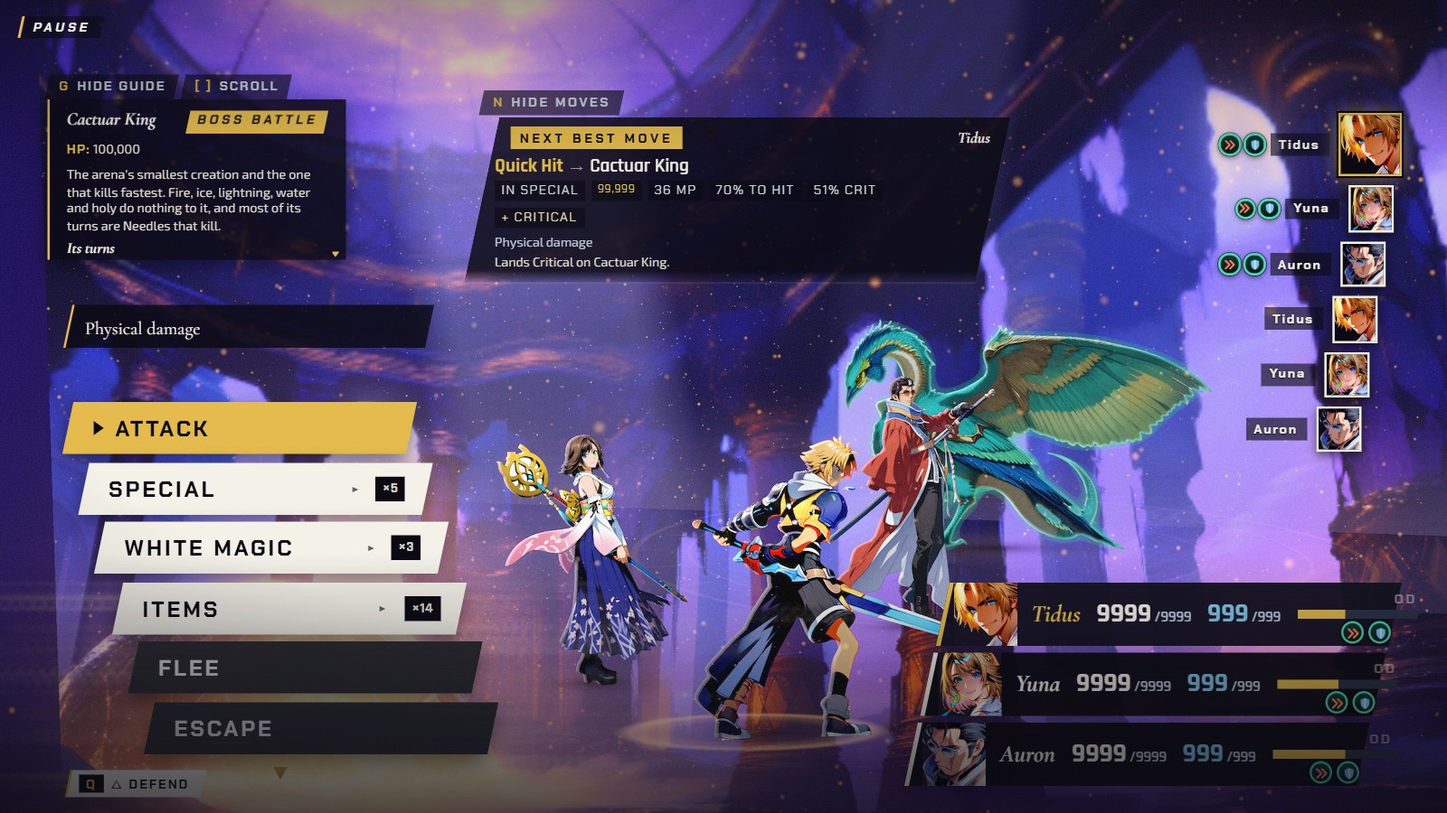
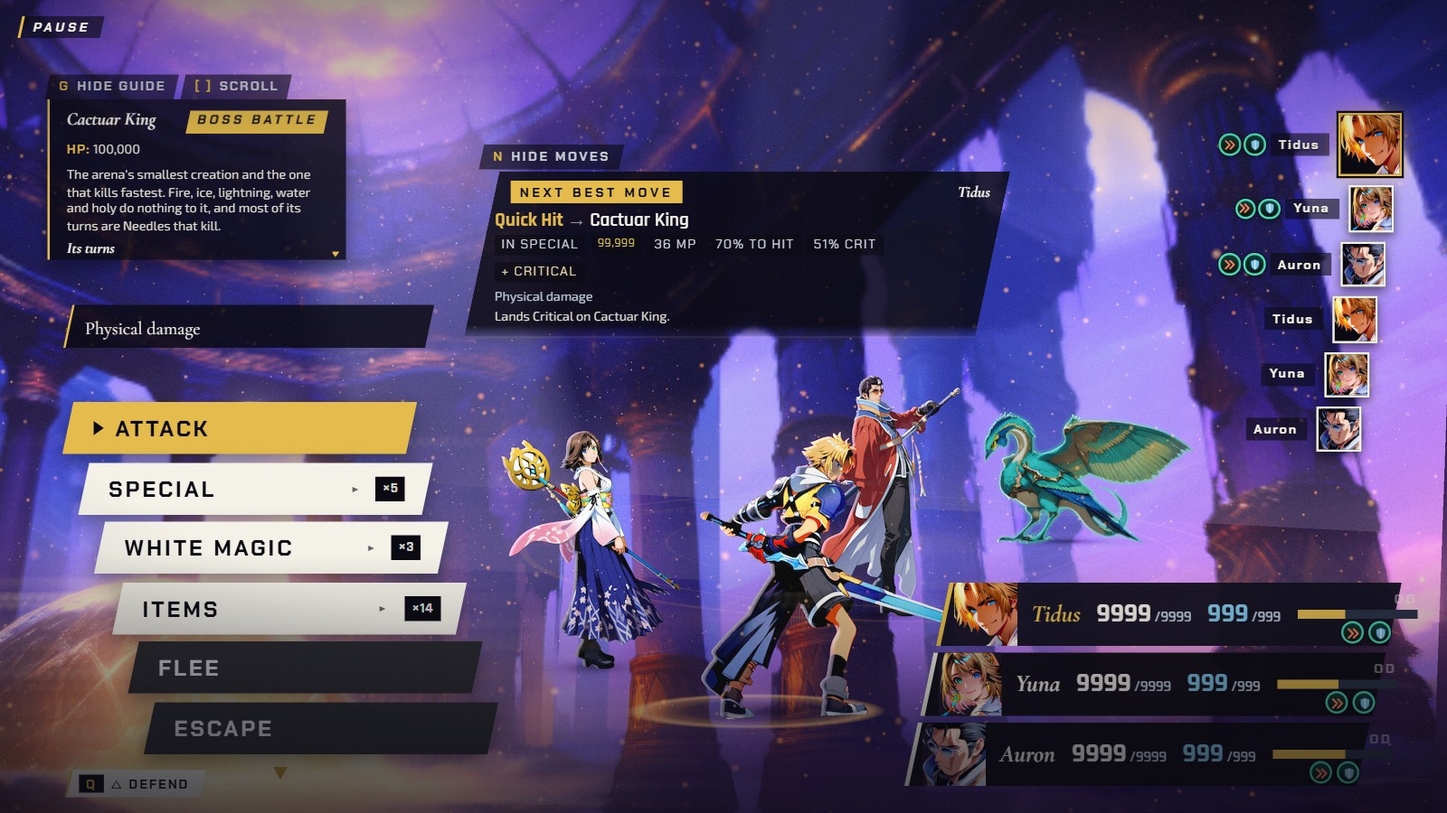
Hidden chapter 54 (Gauntlet), G-1 staging fix: the eight single bodies stand right of Auron at the height their stand-in fits the column (all nine stood on him at the first menu, at 1600, 1366 and 390 wide); the Ultima Buster is listed, not moved; the test, the handoff section and seven pictures (FF
The driver's look at desk-3 (act 1, Cactuar King) and desk-5 (act 2, Don Tonberry) found the stand-in drawn behind Auron. Measured in a headless GPU Chromium, the first menu of each of the nine acts at 1600x900, 1366x768 and 390x844 (the engine's own projected tight alpha boxes of every creature part and party member, six samples each): all nine overlapped Auron and Tidus (acts 1 and 2 at 1600: 33,115 px2 / gap -168 and 23,860 / -122; the other acts 29,000 to 37,000).

Cause: a painting is a plane centred on its spot and worldHeight is the whole sheet down to its ground row, so a wide stand-in reaches half its width left of the spot; all nine stood on x 2.5 (Yunalesca's narrow painting stands on 2.8) and the stand-in sheets are wide (the King's pterya box is 3.6 m at 2.3 m). The party is held on the Dome's slots and Auron's sword ends his box at 1101 of 1600, so the room is the column to the turn list's rows (x 1330), about 205 to 240 px, the width the shipped bosses stand (Yunalesca 188, Spherimorph 195).
[…]

diff --git a/tests/unit/chapters/gauntlet-staging-clear.test.ts b/tests/unit/chapters/gauntlet-staging-clear.test.ts
@@ -1,0 +1,148 @@
+/**
+ * G-1 (2026-11-10, FFX only): the Gauntlet's nine creatures stand clear of the party at the first menu. `src/scenes/gauntlet.ts` stages each creature (a spot and a height); this pins, with no browser and no art, that the
+ * painted box of each stand-in, projected the way the battle screen draws it, ends right of Auron's with a gap and left of the turn list's rows, at 1600 x 900 and 1366 x 768.
+ *
+ * **What is pinned, and where it came from** (a headless Chromium on the GPU, the real battle screen, the first menu of each act, seed 7; `docs/handoff/ch-gauntlet.md`, "G-1 staging fix"):
+ * - `BOX`: each stand-in's tight alpha box as `PaintedActor.contentQuad` reads it, in metres per metre of the figure's world height, measured against the painting (`scale.contentBox / worldHeight`); a sheet is drawn
+ *   centred on its spot, so the box is only as far left of the spot as `x0` says (the King's winged sheet is lopsided, the rest are centred).
+ * - `CAMERA`, `FRAMES`: the first menu's camera and the static lens shift the shared framing plans (`engine/fx/mix`), and Auron's measured right edge, **in the frame the framing plan picks when the boss stands clear of the
+ *   party: it steps the party 0.7 m toward the boss** (Auron on x 2.0, not the slot's 1.3). The picks of the plan are near ties (its own comment says so); a change to that code or a stage-table row for the chapter
+ *   (no step) moves these frames and this test says so by failing: re-measure with `docs/handoff/ch-gauntlet.md`'s recipe.
+ * - The model is a pinhole camera fitted to the run's own rectangles: over the eight bodies and Auron at both sizes (the four edges of each box) it is 1.2 px rms and 3.6 px at worst (the idle drift swings the real camera by
+ *   about 0.07 m); the self-check below pins Auron's right edge, the one the gaps are measured from.
+ *
+ * The Ultima Buster is **not** moved and is the one listed exception: its Head and two Arms flank the party and its body cannot share the column at a size that reads (`docs/handoff/ch-gauntlet.md`, G-1).
+ */
+
+import { describe, expect, it } from 'vitest';
+import { GAUNTLET_CREATURES, type GauntletCreatureId } from '../../../src/data/ffx/gauntlet-ids.ts';
+import { GAUNTLET_HEIGHTS, GAUNTLET_SPOTS } from '../../../src/scenes/gauntlet.ts';
+
+type V3 = readonly [number, number, number];
+
+/** Where the first menu's camera stands once the framing plan has stepped the party, fitted to the measured boxes (metres; the idle drift swings it about 0.07 in x and 0.03 in y, which the gaps asserted allow for). */
+const CAMERA = { pos: [0.01, 2.59, 10.23] as V3, dir: [0.03, -0.06, -0.9977] as V3, fovDeg: 32 };
+
+/** The two desktop sizes of the finding. `lens`: the plan's static shift of the picture in CSS px; `auronRight`: Auron's measured right edge (his sword) in that frame; `rail`: where the turn list's rows begin. */
+const FRAMES = [
+  { size: '1600x900', w: 1600, h: 900, lens: [-64, -36] as const, auronRight: 1061, rail: 1330, minGap: 18 },
+  { size: '1366x768', w: 1366, h: 768, lens: [-55, -31] as const, auronRight: 905, rail: 1136, minGap: 15 },
+] as const;
+
+/** Auron's painted box (his own `contentBox`, 1.93 m figure) and where he stands in the stepped frame: the slot's x 1.3 plus the plan's 0.7 step. */
+const AURON = { x: 2.0, z: -0.75, halfW: 0.625, height: 1.907 };
+
+/** Each stand-in's tight alpha box per metre of world height (x runs right from the spot; y up from the ground). */
+const BOX: Readonly<Record<GauntletCreatureId, { x0: number; x1: number; y1: number }>> = {
+  'cactuar-king': { x0: -0.6366, x1: 0.9459, y1: 0.9675 },
+  'don-tonberry': { x0: -0.4715, x1: 0.4715, y1: 0.9869 },
+  jormungand: { x0: -0.544, x1: 0.544, y1: 0.9766 },
+  'earth-eater': { x0: -0.7156, x1: 0.7156, y1: 0.9777 },
+  'greater-sphere': { x0: -0.5261, x1: 0.5261, y1: 0.9701 },
+  catastrophe: { x0: -0.3762, x1: 0.3762, y1: 0.9755 },
+  thuban: { x0: -0.4501, x1: 0.4501, y1: 0.9761 },
+  neslug: { x0: -0.4741, x1: 0.4741, y1: 0.9824 },
+  'ultima-buster': { x0: -0.7555, x1: 0.7555, y1: 0.9794 },
+};
+
+/** The staging before G-1 (every body on the Dome's slot, x 2.5, z -4, at the estimates): the values that put the stand-ins on Auron. */
+const BEFORE: Readonly<Record<GauntletCreatureId, { spot: V3; height: number }>> = {
+  'cactuar-king': { spot: [2.5, 0, -4], height: 2.3 },
+  'don-tonberry': { spot: [2.5, 0, -4], height: 2.2 },
+  jormungand: { spot: [2.5, 0, -4], height: 3.2 },
+  'earth-eater': { spot: [2.5, 0, -4], height: 2.9 },
+  'greater-sphere': { spot: [2.5, 0, -4], height: 3.0 },
+  catastrophe: { spot: [2.5, 0, -4], height: 3.4 },
+  thuban: { spot: [2.5, 0, -4], height: 2.9 },
+  neslug: { spot: [2.5, 0, -4], height: 2.8 },
+  'ultima-buster': { spot: [2.5, 0, -4], height: 3.4 },
+};
+
+const norm = (v: V3): V3 => {
+  const l = Math.hypot(v[0], v[1], v[2]);
+  return [v[0] / l, v[1] / l, v[2] / l];
+};
+const cross = (a: V3, b: V3): V3 => [a[1] * b[2] - a[2] * b[1], a[2] * b[0] - a[0] * b[2], a[0] * b[1] - a[1] * b[0]];
+const dot = (a: V3, b: V3): number => a[0] * b[0] + a[1] * b[1] + a[2] * b[2];
+
+/** The pinhole: a world point to CSS px in a `w` x `h` frame under the first menu's camera and a lens shift. */
+function project(p: V3, f: { w: number; h: number; lens: readonly [number, number] }): { x: number; y: number } {
+  const fwd = norm(CAMERA.dir);
+  const right = norm(cross(fwd, [0, 1, 0]));
+  const up = cross(right, fwd);
+  const v: V3 = [p[0] - CAMERA.pos[0], p[1] - CAMERA.pos[1], p[2] - CAMERA.pos[2]];
+  const t = Math.tan((CAMERA.fovDeg * Math.PI) / 360);
+  const d = dot(v, fwd);
+  return { x: (dot(v, right) / d / (t * (f.w / f.h)) * 0.5 + 0.5) * f.w + f.lens[0], y: (-(dot(v, up) / d / t) * 0.5 + 0.5) * f.h + f.lens[1] };
+}
+
+/** The screen box (x, right, y, bottom) of a plane box standing at `spot`. */
+function screenBox(spot: V3, x0: number, x1: number, y1: number, f: { w: number; h: number; lens: readonly [number, number] }): { l: number; r: number; t: number; b: number } {
+  const pts = [
+    project([spot[0] + x0, spot[1], spot[2]], f),
+    project([spot[0] + x1, spot[1], spot[2]], f),
+    project([spot[0] + x1, spot[1] + y1, spot[2]], f),
+    project([spot[0] + x0, spot[1] + y1, spot[2]], f),
+  ];
+  return { l: Math.min(...pts.map((p) => p.x)), r: Math.max(...pts.map((p) => p.x)), t: Math.min(...pts.map((p) => p.y)), b: Math.max(...pts.map((p) => p.y)) };
+}
+
+/** A creature's screen box from a spot and a height. */
+function creatureBox(id: GauntletCreatureId, spot: V3, height: number, f: (typeof FRAMES)[number]) {
+  const b = BOX[id];
+  return screenBox(spot, b.x0 * height, b.x1 * height, b.y1 * height, f);
+}
+
+/** Auron's box in a frame, from the model. */
+function auronBox(f: (typeof FRAMES)[number]) {
+  return screenBox([AURON.x, 0, AURON.z], -AURON.halfW, AURON.halfW, AURON.height, f);
+}
+
+/** The eight bodies G-1 moves; the ninth, the Ultima Buster, is the listed exception. */
+const MOVED: readonly GauntletCreatureId[] = GAUNTLET_CREATURES.filter((id) => id !== 'ultima-buster');
+
+describe('the Gauntlet stages every creature clear of the party at the first menu (G-1)', () => {
+  it('the model reads Auron where the browser did: his right edge within 2 px at both sizes', () => {
+    for (const f of FRAMES) expect(Math.abs(auronBox(f).r - f.auronRight), f.size).toBeLessThanOrEqual(2);
+  });
+
+  for (const f of FRAMES) {
+    for (const id of MOVED) {
+      it(`act ${GAUNTLET_CREATURES.indexOf(id) + 1} (${id}) at ${f.size}: its painted box ends at least ${f.minGap} px right of Auron's and left of the turn list's rows`, () => {
+        const auronR = Math.max(auronBox(f).r, f.auronRight); // the measured edge is the stricter of the two when the model is a pixel short
+        const b = creatureBox(id, GAUNTLET_SPOTS[id], GAUNTLET_HEIGHTS[id], f);
+        expect(b.l - auronR, 'gap to Auron').toBeGreaterThanOrEqual(f.minGap);
+        expect(b.r, 'right edge against the turn list').toBeLessThanOrEqual(f.rail);
+      });
+    }
+  }
+
+  it('the staging before G-1 put Don Tonberry and the Cactuar King on Auron at both sizes (the check can fail)', () => {
+    for (const f of FRAMES) {
+      for (const id of ['cactuar-king', 'don-tonberry'] as const) {
+        const old = BEFORE[id];
+        const b = creatureBox(id, old.spot, old.height, f);
+        expect(b.l - auronBox(f).r, `${id} before, ${f.size}`).toBeLessThan(0);
+      }
+    }
+  });
+
+  it('every one of the nine acts is accounted for: eight are staged clear and the Ultima Buster is the one exception, left as it was', () => {
+    expect([...MOVED, 'ultima-buster']).toEqual([...GAUNTLET_CREATURES]);
+    expect(GAUNTLET_SPOTS['ultima-buster']).toEqual(BEFORE['ultima-buster'].spot);
+    expect(GAUNTLET_HEIGHTS['ultima-buster']).toBe(BEFORE['ultima-buster'].height);
+    // The exception really is one: its body, at the spot it keeps, still stands across Auron.
+    const f = FRAMES[0];
+    expect(creatureBox('ultima-buster', GAUNTLET_SPOTS['ultima-buster'], GAUNTLET_HEIGHTS['ultima-buster'], f).l).toBeLessThan(auronBox(f).r);
+  });
+
+  it('G-1 changed the bodies by staging only: the Dome\'s depth, and no body taller than before', () => {
+    for (const id of MOVED) {
+      expect(GAUNTLET_SPOTS[id][2], `${id} depth`).toBe(BEFORE[id].spot[2]);
+      expect(GAUNTLET_SPOTS[id][0], `${id} stands right of where it stood`).toBeGreaterThan(BEFORE[id].spot[0]);
+      expect(GAUNTLET_HEIGHTS[id], `${id} height`).toBeLessThanOrEqual(BEFORE[id].height);
+      expect(GAUNTLET_HEIGHTS[id], `${id} not below half its estimate`).toBeGreaterThanOrEqual(BEFORE[id].height * 0.5);
+    }
+    expect(GAUNTLET_HEIGHTS['don-tonberry']).toBe(BEFORE['don-tonberry'].height); // the narrow stand-in needs no shrink: only a move
+  });
+});

diff --git a/src/scenes/gauntlet.ts b/src/scenes/gauntlet.ts
@@ -15,45 +15,64 @@ import { GAUNTLET_CREATURES, ULTIMA_BUSTER_ARM_LEFT_ID, ULTIMA_BUSTER_ARM_RIGHT_
 // (`EnemyGroupDef.plate`, `data/ffx/gauntlet-ids.ts#GAUNTLET_PLATE`) is that plate, so the battle screen's plate swap is a no-op here; when the new plate lands it is one line there and in `data/art/artNamespace.ts`.
 //
 // ONE STAGE, NINE ACTS. The chapter is a chain of nine fresh fights and a chain keeps one scene: the staging below knows every creature by its combatant id, so each act places its own and the others are never on the field
-// together. All nine stand on the Dome's own enemy slot 0 (solved against the HUD safe area: the CTB queue owns everything right of 0.843 of the canvas, so a figure has to finish by 0.79; `./zanarkand-dome.ts`).
-// The Ultima Buster alone has parts: its Head and its two Arms stand behind the body, the Arms either side of it.
+// together. The Dome's own enemy slot 0 (x 2.5, z -4.0; solved against the HUD safe area: the CTB queue owns everything right of 0.843 of the canvas, `./zanarkand-dome.ts`) is where the Ultima Buster stands; the other
+// eight stand at the same depth, further right (G-1, below). The Ultima Buster alone has parts: its Head and its two Arms stand behind the body, the Arms either side of it.
+//
+// **G-1 (2026-11-10, FFX only): THE STAND-INS STOOD ON AURON.** Each plane is centred on its spot and `worldHeight` is the height of the whole sheet down to its ground row, so a wide stand-in reaches half its width left of
+// the spot (the King's winged `pterya` sheet is 1,785 x 950: 3.6 m of painted box at 2.3 m). Yunalesca's narrow painting (188 px wide at 1600) is clear of Auron from x 2.8; these nine, from x 2.5, reached 122 to 252 px into
+// Auron's box (79 to 263 into Tidus's) at 1600 x 900, and overlapped it at 1366 x 768 and 390 x 844 too (`docs/handoff/ch-gauntlet.md`, "G-1 staging fix"). The party stands on the Dome's slots and the shared framing
+// (`engine/fx/mix`) steps it 0.7 m toward a boss that stands clear of it, so the room is what is left of that frame: Auron's box ends at 1061 of 1600 px (his sword) and the turn list's rows begin at 1330, a column about 240 px
+// wide (Yunalesca stands 188 wide, Spherimorph 195). So the eight bodies stand at the Dome's boss depth at x 4.5 to 4.75 with **the height at which their painting is no wider than the column**: the narrow stand-ins (Don
+// Tonberry, Catastrophe, Th'uban, Neslug) lose 0 to 19 percent, the wide ones (the King, Earth Eater, Jormungand, the Greater Sphere) 31 to 48. Standing deeper would not buy the size back (the box is as wide on screen
+// wherever it stands) and the phone refits its camera to hold the whole fight in one slice, so every metre between Auron and a figure's far edge is paid for there in the party's size. **The Ultima Buster is not moved**:
+// its four pieces cannot share the column at a size that reads (the numbers and the two options are in the handoff note).
 //
 // **THE HEIGHTS ARE ESTIMATES** for the framing (no stature row exists for any of the nine: `data/ffx/fiend-stature.ts` is keyed by other monsters): the party stands 1.78 and the Dome's own boss 2.9. The painting that
 // stands in for each creature (`GAUNTLET_SPRITE`) is not the creature, so the height is read off the creature as the guides describe it (a giant Cactuar, a king Tonberry, a great serpent, a heavy ground-bound beast, a
 // round machine, a vast thorned monster, a robed giant, a bulky shelled slug, a towering machine), capped at what the Dome's rigs frame. They were LOOKED AT in the stage 5 browser inspection of `docs/handoff/ch-gauntlet.md` (all nine acts' first menus):
 // the first pass put the nine on Yunalesca's spot (x 2.8) at 2.2 to 3.4 m, and the wide stand-in paintings (the King's winged `pterya`, Earth Eater's `sinspawn-gui`) reached the turn list's rail, and the Arms' stand-in
-// `gate-lock` (a 659 x 394 bar) at 1.8 m was a 3 m beam across the party; so the spot is the Dome's own slot 0 (x 2.5) and the King, Earth Eater and the Arms are smaller. A figure that clips the frame is a one-number
-// change here; the art lane's paintings are solved against the safe area.
+// `gate-lock` (a 659 x 394 bar) at 1.8 m was a 3 m beam across the party; so the second pass stood them on the Dome's own slot 0 (x 2.5) with the King, Earth Eater and the Arms smaller (G-1 above moved the bodies again, and the heights below are the third pass's). A figure that clips the
+// frame is a one-number change here; the art lane's paintings are solved against the safe area.
 
-/** The Dome's own enemy slot 0 (`ZANARKAND_DOME_SLOTS.enemy[0]`; Yunalesca stands a little right of it, at 2.8): every body stands here. */
+/** The Dome's own enemy slot 0 (`ZANARKAND_DOME_SLOTS.enemy[0]`; Yunalesca stands a little right of it, at 2.8): the Ultima Buster stands here (the published slot too). */
 const BOSS_SPOT: Spot = [2.5, 0, -4.0];
 
-/** Where each combatant stands, by id. The parts of the Ultima Buster stand behind the body, the Arms either side of it and the Head above them. */
+/** The other eight bodies' depth: the Dome's own, so the camera and the phone's slice fit are planned for the stage as every other chapter on it gets them. */
+const BODY_Z = -4.0;
+
+/**
+ * Where each combatant stands, by id. **G-1:** the eight single bodies stand right of Auron at the Dome's depth, each at the x that puts its painting's left edge about 24 px right of his sword in the frame the framing plan picks
+ * (1600 x 900; 22 at 1366 x 768) with its right edge left of the turn list's rows (at 1326 of 1330); the King's x is lower than the rest because its winged sheet is lopsided (its box runs 1.46 m left of the spot and 2.18
+ * right at 2.3 m, the others are centred on theirs). The parts of the Ultima Buster stand behind the body, the Arms either side of it and the Head above them.
+ */
 export const GAUNTLET_SPOTS: Readonly<Record<GauntletCombatantId, Spot>> = {
-  'cactuar-king': BOSS_SPOT,
-  'don-tonberry': BOSS_SPOT,
-  jormungand: BOSS_SPOT,
-  'earth-eater': BOSS_SPOT,
-  'greater-sphere': BOSS_SPOT,
-  catastrophe: BOSS_SPOT,
-  thuban: BOSS_SPOT,
-  neslug: BOSS_SPOT,
+  'cactuar-king': [4.54, 0, BODY_Z],
+  'don-tonberry': [4.7, 0, BODY_Z],
+  jormungand: [4.75, 0, BODY_Z],
+  'earth-eater': [4.75, 0, BODY_Z],
+  'greater-sphere': [4.75, 0, BODY_Z],
+  catastrophe: [4.74, 0, BODY_Z],
+  thuban: [4.74, 0, BODY_Z],
+  neslug: [4.74, 0, BODY_Z],
   'ultima-buster': BOSS_SPOT,
   [ULTIMA_BUSTER_HEAD_ID]: [2.5, 0, -8.0],
   [ULTIMA_BUSTER_ARM_LEFT_ID]: [0.7, 0, -6.0],
   [ULTIMA_BUSTER_ARM_RIGHT_ID]: [3.6, 0, -6.0],
 };
 
-/** World heights, metres: the party stands 1.78. Estimates for the framing, `[estimate]` (see the note above). */
+/**
+ * World heights, metres: the party stands 1.78. Estimates for the framing, `[estimate]` (see the note above). **G-1:** the eight single bodies are the largest height at which the stand-in's painted box fits the column
+ * right of Auron (the comment on each is the height it had, read off the creature as the guides describe it); the column is the HUD's, so the art lane's real paintings re-solve them. The Ultima Buster keeps its estimates.
+ */
 export const GAUNTLET_HEIGHTS: Readonly<Record<GauntletCombatantId, number>> = {
-  'cactuar-king': 2.3, // the stand-in is a wide winged beast (1,785 x 950): at 2.6 its wing tip reached the turn list
-  'don-tonberry': 2.2,
-  jormungand: 3.2,
-  'earth-eater': 2.9, // the stand-in is a wide, heavy body: at 3.2 its right edge crossed the turn list's rail
-  'greater-sphere': 3.0,
-  catastrophe: 3.4,
-  thuban: 2.9, // the Sanctuary Keeper painting it stands in with is the Spectral Keeper's 2.9 on this very stage
-  neslug: 2.8,
+  'cactuar-king': 1.37, // was 2.3: the stand-in is a wide winged beast (1,785 x 950), its box 3.6 m wide at 2.3 m
+  'don-tonberry': 2.2, // unchanged: the narrow stand-in needed a move and no shrink
+  jormungand: 1.99, // was 3.2: the stand-in (`geosgaeno`) is a long serpent
+  'earth-eater': 1.51, // was 2.9: the stand-in is a wide, heavy body
+  'greater-sphere': 2.06, // was 3.0
+  catastrophe: 2.86, // was 3.4
+  thuban: 2.39, // was 2.9 (the Sanctuary Keeper painting it stands in with is the Spectral Keeper's 2.9 on this very stage)
+  neslug: 2.27, // was 2.8
   'ultima-buster': 3.4,
   [ULTIMA_BUSTER_HEAD_ID]: 1.3,
   [ULTIMA_BUSTER_ARM_LEFT_ID]: 1.1, // the stand-in is a wide bar (659 x 394): 1.8 made a 3 m beam

diff --git a/docs/handoff/ch-gauntlet.md b/docs/handoff/ch-gauntlet.md
@@ -424,7 +424,7 @@ Game case: **FFX only** (the chapter is the Monster Arena's, CTB; the FFX-2 abse
 - **GA8 (the file's drops only, the x99 prize named as not in this build):** the second sentence: "...the stacked prize the game pays for each first win is not in this build." The chapter pays the records' drops (a certain item and a rare Dark Matter), AP 8,000 or 50,000, no gil. Alternative: pay the guides' x99 items.
 - **GA13 (Normal start, Escape and Flee off, flagged unsourced):** done in stage 2's formations (`canEscape: false`, no start type); the groups file's header says "unsourced" and `gauntlet-chapter.test.ts` pins both. The smoke shows Escape and Flee drawn and shut.
 - **GA10, GA11, GA12 stay the stand-ins** (below); GA10 (eight new paintings, Th'uban the Keeper's recolour) and GA11 (one new plate, a light per creature) are **held for Bailey's picks with mockups first** (hard rule 9).
-- **The stage's own picks:** the stage is the Dome's scene derived, not a new plate (the preflight's option (c)); each creature stands on the Dome's boss spot at an estimated height (`GAUNTLET_HEIGHTS`: the bodies 2.2 to 3.4 m, the Ultima Buster's parts 1.1 to 1.3 m, all on the Dome's own enemy slot 0, x 2.5; looked at, see the framing inspection below); **no turn-order change: Auron's "He moves after you" line is shown at the first menu** (true in 200 of 200 seeds); no callouts in the story (the guide card and the advisor name what each creature answers); the withdrawal card prints "The Cactuar King got away!" (stage 2's GA9 pick); five reward items get name-only rows (below).
+- **The stage's own picks:** the stage is the Dome's scene derived, not a new plate (the preflight's option (c)); each creature stands on the Dome's boss spot at an estimated height (`GAUNTLET_HEIGHTS`: the bodies 2.2 to 3.4 m, the Ultima Buster's parts 1.1 to 1.3 m, all on the Dome's own enemy slot 0, x 2.5; looked at, see the framing inspection below; **G-1 below moved eight of the nine bodies right and resized them: they had stood on Auron**); **no turn-order change: Auron's "He moves after you" line is shown at the first menu** (true in 200 of 200 seeds); no callouts in the story (the guide card and the advisor name what each creature answers); the withdrawal card prints "The Cactuar King got away!" (stage 2's GA9 pick); five reward items get name-only rows (below).
 
 ### The registrations in shared tables (the integrator lists these; each a minimal add, the one line named)
 
@@ -497,9 +497,9 @@ Four lines. **advisor** is the shipped line (`SHIPPED_LINE`: Yojimbo unused, so 
 
 1. `desk-1-party-prep.jpg`: the party-prep chapter tab for "THE GAUNTLET, FFX · EXP, Nine creations, one arena": the two-sentence card (the unlock rule and the prize line), the three objectives (Reach the Earth Eater, Reach Th'uban, Leave the last stall empty), the tip (Lulu for Neslug and the Ultima Buster, an Arm before the body, no Overdrive on the Greater Sphere), three small snapshots (the arena floor, Lulu, Auron), the party list of seven, the front three and START BATTLE. The right of the panel is the Dome plate (the fallback).
 2. `desk-2-pre-scene.jpg`: the first line of the pre scene on the full Dome plate, the box typing "The Monster Arena, in the Calm" (typewriter text, mid-line).
-3. `desk-3-first-menu.jpg`: the first command menu of act 1: the guide card top left ("Cactuar King, BOSS BATTLE, HP 100,000" and the page's first paragraph), "NEXT BEST MOVE Quick Hit -> Cactuar King", the menu with Flee and Escape shut, the party on the Dome's floor and the stand-in (`pterya`, a teal winged beast at 2.3 m, its wing tip ending at the turn list's rail: at the first pass's 2.6 m it crossed it, which is why the height changed; the real painting is solved against the HUD's safe area, the art list).
-4. `desk-4-after-a-needle.jpg`: after the first exchange: the "10000 Needles" banner at the top (the King's counter), the menu closed, the party standing on the plate, the stand-in in front of a column.
-5. `desk-5-act-2-first-menu.jpg`: act 2: the card now reads "Don Tonberry, HP 480,000" with its Karma paragraph, "NEXT BEST MOVE Attack -> Don Tonberry", the party whole (9,999) and the stand-in (`grothia`, a horned red beast) beside Auron.
+3. `desk-3-first-menu.jpg` (**retaken after G-1; the description is the retaken picture's**): the first command menu of act 1: the guide card top left ("Cactuar King, BOSS BATTLE, HP 100,000" and the page's first paragraph), "NEXT BEST MOVE Quick Hit -> Cactuar King", the menu with Flee and Escape shut, the party on the Dome's floor, stepped a little right by the framing plan, and the stand-in (`pterya`, a teal winged beast, 235 x 147 px) right of Auron with a gap of about 25 px, its wing tip ending just left of the turn list's rows. In the first pass the same stand-in stood behind Auron (its wing over his shoulder and blade).
+4. `desk-4-after-a-needle.jpg` (retaken after G-1): after the first exchange: the "10000 Needles" banner at the top (the King's counter), the menu closed and the HUD faded, the party standing on the plate in the wide frame, the stand-in right of Auron in front of a column, clear of him.
+5. `desk-5-act-2-first-menu.jpg`: act 2: the card now reads "Don Tonberry, HP 480,000" with its Karma paragraph, "NEXT BEST MOVE Attack -> Don Tonberry", the party whole (9,999) and the stand-in (`grothia`, a horned red beast) right of Auron (**retaken after G-1; in the retaken picture it stands about 115 px clear of Auron and its tail runs under the turn list's last row: see G-1, "Reaching an act through the chain"**).
 
 **The framing inspection (a separate headless run under the same lock, not the smoke and not committed; script `s5/framing.mjs`, pictures `s5/framing/a-*.jpg` before and `b-*.jpg` after the change below):** no debug route starts an arbitrary act, so each act was entered with the debug API's `gotoChapter` after the chapter record's first group was pointed at that act's formation in the page (a module-level write in the dev server's module graph; every picture is the real battle screen with the real guide card and menu), and its first menu was photographed (the Ultima Buster's target step too). **What it found:** at the first pass (the nine on Yunalesca's spot, x 2.8, at 2.2 to 3.4 m) the King's winged stand-in and Earth Eater's heavy one crossed the turn list's rail, and the Arms' stand-in `gate-lock` (a 659 x 394 bar) at 1.8 m was a 3 m beam across the party. **The change** (`src/scenes/gauntlet.ts`): the Dome's own slot 0 (x 2.5), the King 2.3 m, Earth Eater 2.9, the Arms 1.1 and the Head 1.3, the Arms either side of the body and the Head behind it. **After it** all nine first menus sit inside the frame with the card, the menu and the party panel clear (the King's wing tip and Earth Eater's right edge end at the rail's edge); the stand-ins are what they are (a winged beast for a cactus, a bar and a post for the Arms and the Head), and the target cursor on the Ultima Buster draws its brackets on the body. **Not covered (and said):** the Ultima Buster's Head and Arms are crude stand-ins whose own target rows were not exercised by key; the seam's white-out and narration were not photographed (the story test pins their structure and budget); the pause tab and the phone layout (390 x 844) were not run (the Shinryu run's phone pass is the precedent); the poses the stand-ins lack (down, shell, regrown...) are the art list's.
 
@@ -560,6 +560,49 @@ Game case of everything below: **FFX only** (Monster Arena content). Both review
 ### Repair after verify 1 (2026-11-10)
 
 Game case: **FFX only** (Monster Arena content). Verify 1 found no critical, one major by the letter (V1: `flash-covers.test.ts` changed after the full suite) and two minors, both header comments: M1, the Th'uban header still listed the Delay moves under the CTB bit (they carry the HP bit alone and are answered by Condemn; line 26 of the same header, the records and the test already said so), and M2, rule 11 of `src/engine/tactics/gauntlet.ts` still said nothing in the menus of Tidus, Yuna and Auron is magic or a special (they have no attack spell of their own, but the spells of Yuna's aeons and every Overdrive pass Neslug's shell, as the guide page says). Both are fixed in `8e6cf0469` (two comments, no behaviour change). V1 is closed by running: **the full unit suite once more, through the suite lock, on `8e6cf0469`, the tip that holds every source and test file of the lane: 2,214 files, 2,182 passed, 32 skipped, 0 failed; 35,505 tests passed, 204 skipped, 1 todo, 0 failed; 2,836 s, exit 0** (`flash-covers` 8 tests and `live-record` 14 tests among the passes). Only docs differ from what that suite ran. Before it: `tsc --noEmit` exit 0; the lane's 19 files plus the guard test and `flash-covers` (21 files, 511 tests) pass; the 36 door test files (641 tests) pass; `node tools/orphans.mjs` lists none of the lane's modules. No boss number, record, test expectation or behaviour moved, so the two A/Bs of the fix pass (456 and 924 identical digests) stand.
+
+## G-1 staging fix (2026-11-10): the stand-ins stood on Auron — DONE for eight acts of nine, the ninth listed
+
+Game case: **FFX only** (the chapter is FFX's; nothing under `src/battle` changes, no number, no AI, no engine edit; nothing is deployed). Files: `src/scenes/gauntlet.ts` (spots and heights of eight bodies), `tests/unit/chapters/gauntlet-staging-clear.test.ts` (new, 20 cases), this note, seven pictures under `docs/screenshots/ch-gauntlet/`.
+
+**The finding (the driver's look):** at the first menu of act 1 (Cactuar King) and act 2 (Don Tonberry), 1600 x 900, the stand-in stood behind Auron and the two overlapped.
+
+**Method (nothing here is guessed from the code).** A headless Chromium on the GPU, the real battle screen, the first menu of each act (the debug API's `gotoChapter` with the chapter's first group pointed at the act's formation, seed 7, as the stage 5 framing inspection did; act 1 and act 2's pictures by real keys). The rectangle of every figure is `window.__pyrefly.targeting().rects[id]` = `PaintedStage.projectRect`: the **tight alpha box** of the pose (a transparent margin is not in it) through the live camera, CSS px; the party's are read the same way; each is the union of six samples 300 ms apart (the party breathes 1 to 3 px, and two identical runs differ by up to 5.3 px in x and 3.3 in y: that is the noise floor of any before and after). The HUD is every visible element with a class, by its DOM box. Three sizes: 1600 x 900, 1366 x 768, 390 x 844. The scripts are scratch, not committed; the numbers are below.
+
+**Before (every act, every size):** all nine overlapped Auron and Tidus. Acts 1 and 2: King 408 x 256 px at 932,355 against Auron's box (about 914..1101) and Tidus's (about 760..1058) (overlap 33,115 px² with Auron, gap -168; 15,859 with Tidus, gap -126); Don Tonberry 238 x 247 at 978 (23,860 / -122 and 9,641 / -79). At 1366: King 21,984 / -136, Tonberry 16,203 / -100. On the phone: King 6,680 / -73, Tonberry 7,533 / -70. Acts 3 to 8: 29,171 to 37,335 px² at 1600 (gaps to Auron -148 to -252); act 9: 65,323.
+
+**The cause.** A painting is drawn as a plane **centred on its spot**, and `worldHeight` is the height of the whole sheet down to its ground row (`PaintedScale.computePoseScale`), so a wide stand-in reaches half its width left of the spot. All nine stood on x 2.5 (Yunalesca's spot is 2.8, and her painting is 188 px wide). The stand-in sheets are wide (the King's `pterya` is 1,785 x 950, a box 3.6 m wide at 2.3 m; Earth Eater's 4.1), so at 1600 their boxes began 122 to 252 px left of Auron's right edge; the party is held on the Dome's slots (Auron on x 1.3, his box ends at 1101 because of his sword), the camera is the Dome's, and nothing else moved. Spherimorph's chapter met the same thing (review of 2026-11-06, m2) and moved its boss back and right.
+
+**The room that is left.** The party cannot move, so the creature has the column between Auron's sword and the turn list's rows (they begin at x 1330 of 1600): about 205 px with the party on its slots, about 240 px in the frame the framing plan picks for a clear boss (below). That is how wide the shipped bosses stand (Yunalesca 188, Spherimorph 195). A wide stand-in does not fit it at its old height, and standing further back buys no size (the box is as wide on screen wherever it stands) while the phone refits its camera to hold the whole fight in one slice.
+
+**The change (`src/scenes/gauntlet.ts`, the eight bodies; the Ultima Buster and its parts are untouched):**
+
+| act | body | spot x (z stays -4.0) | height m | box at 1600, w x h |
+|---|---|---|---|---|
+| 1 | Cactuar King | 2.5 > 4.54 | 2.3 > 1.37 | 408 x 256 > 235 x 147 |
+| 2 | Don Tonberry | 2.5 > 4.7 | 2.2 > 2.2 | 238 x 247 > 229 x 239 |
+| 3 | Jormungand | 2.5 > 4.75 | 3.2 > 1.99 | 398 x 356 > 238 x 212 |
+| 4 | Earth Eater | 2.5 > 4.75 | 2.9 > 1.51 | 469 x 326 > 235 x 163 |
+| 5 | Greater Sphere | 2.5 > 4.75 | 3.0 > 2.06 | 348 x 325 > 238 x 221 |
+| 6 | Catastrophe | 2.5 > 4.74 | 3.4 > 2.86 | 295 x 381 > 240 x 308 |
+| 7 | Th'uban | 2.5 > 4.74 | 2.9 > 2.39 | 299 x 322 > 239 x 256 |
+| 8 | Neslug | 2.5 > 4.74 | 2.8 > 2.27 | 304 x 318 > 234 x 247 |
+
+Each height is the largest at which the stand-in's box fits the column; the narrow stand-ins (Don Tonberry, Catastrophe, Th'uban, Neslug) lose 0 to 19 percent of their height, the wide ones (the King, Earth Eater, Jormungand, the Greater Sphere) 31 to 48. The King and Earth Eater end the smallest on screen (147 and 163 px tall against Auron's 271): the first is "the arena's smallest creation" by the guide card's own words, the second is the sheet's shape, not the creature's.
+
+**After (the same cells; overlap px² / smallest gap px, each creature part against Tidus, Yuna and Auron):** acts 1 to 8 are **clear in all 24 cells**: 1600 x 900 gaps 22 to 26 px (to Auron; Tidus 36 to 43), 1366 x 768 gaps 20 to 23, 390 x 844 gaps 52 to 60. Act 1: 0 / 26, 0 / 20, 0 / 60; act 2: 0 / 24, 0 / 20, 0 / 57 (1600, 1366, phone). At 1600 and 1366 the right edges end at 0.82 to 0.83 of the width (the rows begin at 0.831). **Act 9, the Ultima Buster, is listed, not fixed** (below). Pictures: `desk-3-first-menu.jpg`, `desk-4-after-a-needle.jpg` and `desk-5-act-2-first-menu.jpg` retaken by the real-key smoke (title, the typed word, party prep, the pre scene, act 1 by key into act 2), `g1-act-6-1600.jpg`, `g1-act-7-1600.jpg` and `g1-act-8-1600.jpg` (the three largest cleared bodies, Catastrophe, Th'uban, Neslug: each stands right of Auron with a gap and left of the turn list), `g1-act-1-390.jpg` (the phone: the King right of Auron, the party whole, all of it in the slice).
+
+**What else moved (checked, not assumed).** *The HUD:* 7,980 element boxes over the 27 cells stayed within 1 px; the only elements that moved are the **move advisor card** ("NEXT BEST MOVE": `mad__*` and its key hints, in 16 of 27 cells, 60 to 276 px), which solves its place around the creature's box by design (`enemyObstacleRect`); the guide card, the name plates, the command menu, the party plates and the turn list did not move. *The party:* **not the same as before, and not because of this change.** The shared framing plan (`engine/fx/mix/framing.ts`) tries "the party stays", then "the party steps 0.35 m toward the fiends", then "0.7 m", and takes the best score; its own comment says the steps are chosen by near ties. With the old staging the creature covered Auron, so a step broke its cover rule and 7 of 9 acts stayed (step 0); with a creature that stands clear it **steps the party 0.7 m toward it in every act at 1600 and 1366** and shifts the lens to hold the frame (Auron's box ends at 1061, not 1101). The slots are untouched (Auron is on 1.3 before the step). On the phone the plan takes no step but the slice fit stands the camera back to hold the creature, whose far edge now stands 1.2 to 2.2 m further right than before: **the party's boxes are 15 to 28 percent narrower on the phone** (Auron 71 to 78 px wide, was 84 to 104).
+
+**Reaching an act through the chain (not the same frame; the disclosed remainder).** The plan's pick depends on how a fight is entered. A fresh start (the debug API, act 1 by key) took +0.7 in every cell above. Acts reached through the seam took other picks: in a probe that fought act 1 by key and read act 2's menu, the settled pick was +0.35 (Don Tonberry 1150..1380 against Auron's 847..1028: a gap of 122 px, its right edge 50 px under the turn list's first rows); in the smoke (`desk-5-act-2-first-menu.jpg`) act 2 showed no step at all (the party on its slots, the Tonberry about 115 px clear of Auron, its tail under the turn list's last row). So **in the chain the creature is clear of the party by more than in a fresh start, and its right edge can run 50 to 105 px under the turn list** (the shared rules allow some of a creature under a panel). Making both entries rail-clean needs a column about 125 to 180 px wide (the creatures at half their old size): not done.
+
+**The listed cell: act 9, the Ultima Buster** (not moved; at 1600 its body 649 x 526 px overlaps Tidus 65,317 px², Yuna 31,519, Auron 48,767; its Head and two Arms overlap too: 4,001 to 12,141; 1366 and the phone the same shape). It cannot clear the party without becoming tiny: its body fits the 233 px column only at 1.42 m (0.42 of its 3.4 m, a box of 233 x 151 px) and its Head and Arms (69 x 107 and 177 x 104 px each) would have to stand in the same column. Two options: **(A) chapter data:** pack the four pieces into the column (body about 1.4 m, the Arms and Head at the same 0.42, stacked: the machine reads as a toy beside the party; the test pins that it is the one exception today); **(B) shared code, one line:** give it the colossus class the framing already has for Evrae, Natus and Bahamut (`COLOSSUS` in `src/engine/fx/mix/masters.ts`: a low camera aimed up at the chest, BOSS SCALE, and `separate()`, which steps the boss away until no member stands inside its painted box): it looms behind the party, as the guide card says the Arms do ("stand between you and its body"). Not tried here: a shared file and Bailey's look first (hard rule 9). (C) is to accept the overlap as the design.
+
+**The shared cause, as an option (not edited).** The party step above is the one thing a chapter cannot set. A row for the chapter in `src/engine/fx/mix/stageTable.ts` with no move (`party: { right: 0, toward: 0 }, enemy: { right: 0, toward: 0 }`, as Chapter X's) makes the plan skip the steps (`stand.side` is non-null, `framing.ts`), keeps the party on its slots in every act and every entry, and removes the entry-path variance. Measured with the page's own check switch `?stand=0,0,0,0` (which does that for one page load) on the smaller staging this note's first pass used (x 3.52 for the King and 3.7 for the rest; heights King 1.18, Don Tonberry 1.98, Jormungand 1.72, Earth Eater 1.31, Greater Sphere 1.78, Catastrophe 2.47, Th'uban 2.08, Neslug 1.97): acts 1 to 5 clear at 1600 with 22 to 27 px and the right edge at 0.826; Catastrophe, Th'uban and Neslug were drawn 1.3 to 1.4 times larger (a closer frame; boxes 279 to 290 px wide) and overlapped Auron by 22 to 43 px, so those three would need their own solve. Not a free fix; the driver's call. **If the row is added, the eight bodies must be re-solved with it** (the values above are for the stepped frame the plan picks today; in an unstepped frame they stand about 128 px further right, under the turn list).
+
+**The proof the check can fail:** the new test pins, without a browser or art, that the eight bodies' painted boxes (the stand-ins' alpha boxes per metre of height, the first menu's camera and lens as measured in the stepped frame, Auron's edge) end at least 18 px (1600) and 15 px (1366) right of Auron and left of the turn list's rows (one case per act and size), that the ninth is the one exception and unchanged, and that the model reads Auron's edge within 2 px; with the old values put back for the eight bodies 17 of its 20 cases fail (acts 1 and 2 at both sizes among them), and the file was then restored byte for byte. The model is fitted to the run's own rectangles (1.2 px rms, 3.6 worst); a change to the shared plan or a stage-table row moves its frames, and the test then fails and says to re-measure.
+
+**What is left:** (1) act 9 (options A, B, C); (2) the chained acts' rail overlap and the party-size cost on the phone are the shared plan's: the stage-table row above is the lever, with its three re-solves; (3) the real paintings re-solve the sizes against the column (the art list); (4) Bailey has not seen these sizes (hard rule 9: the stand-ins are the driver's picks, his to overturn).
 
 ## Records owed (for the release pipeline)
 
